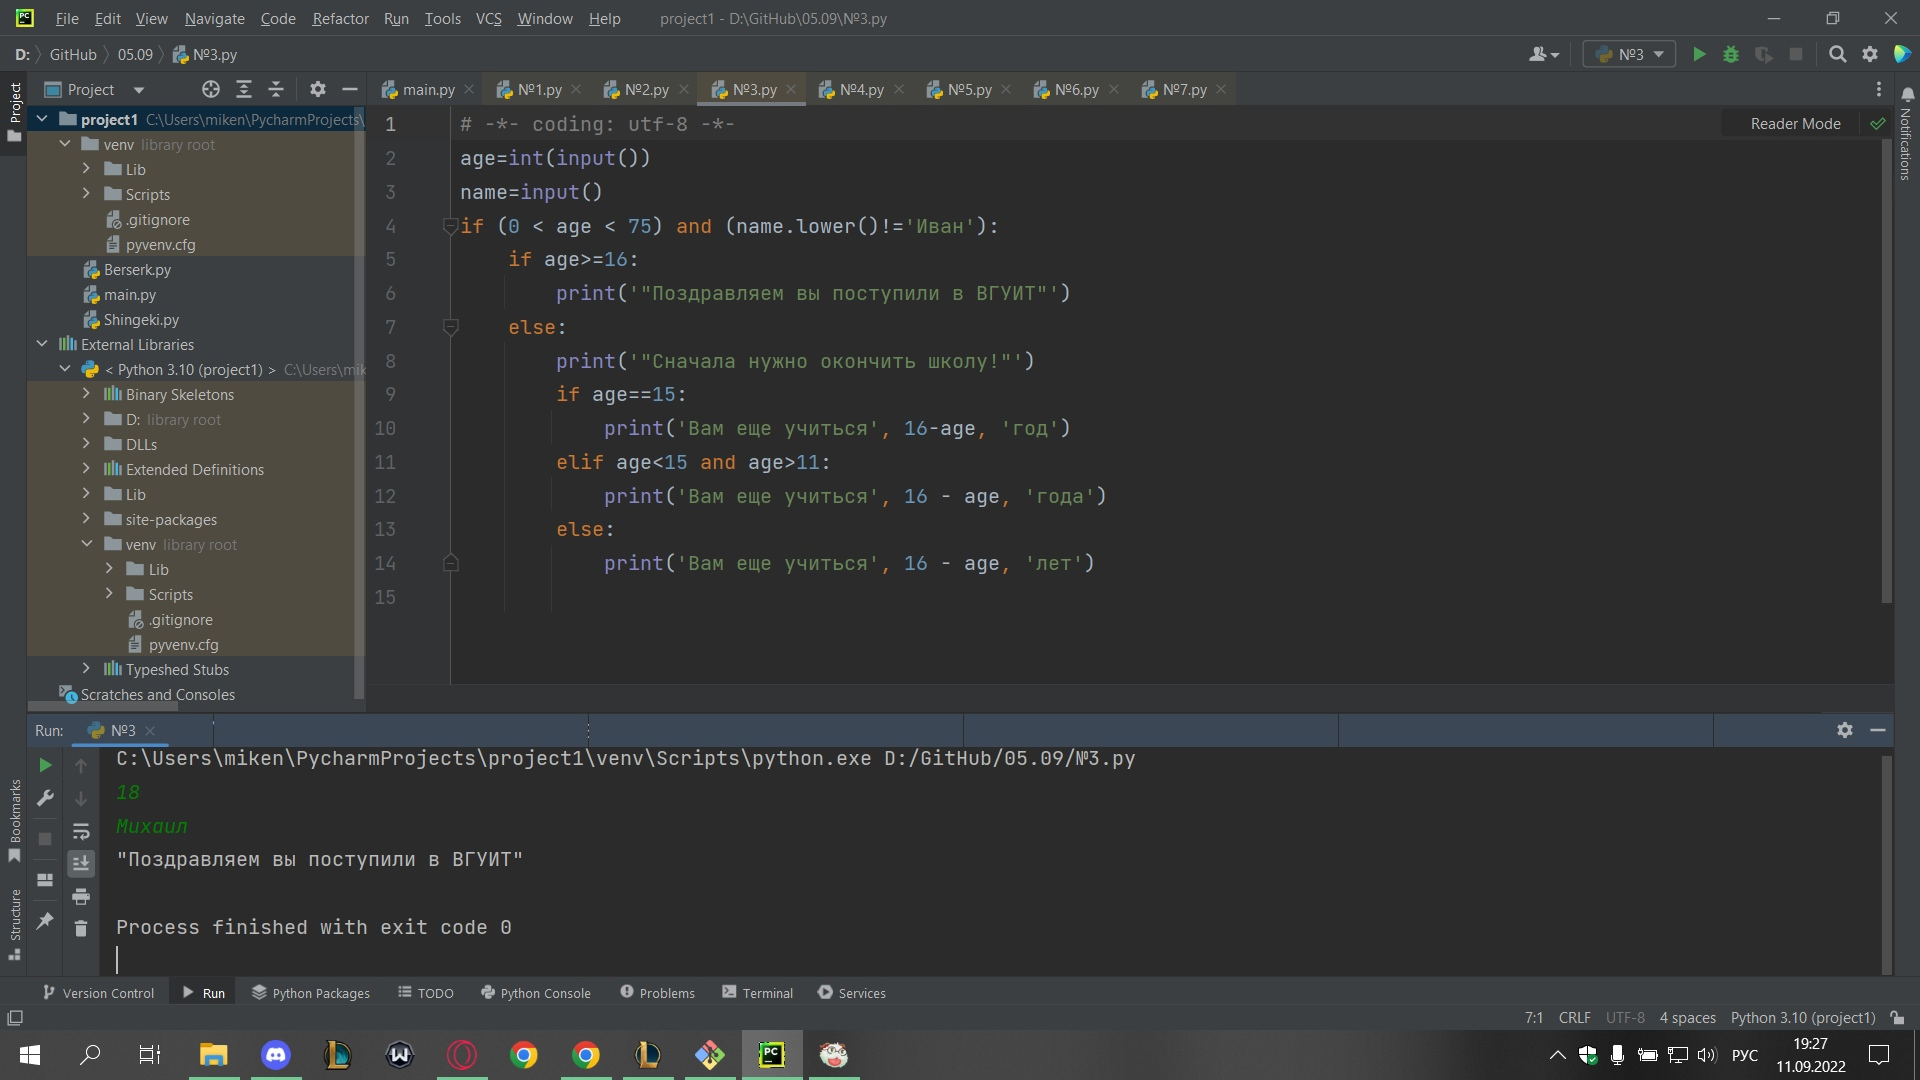
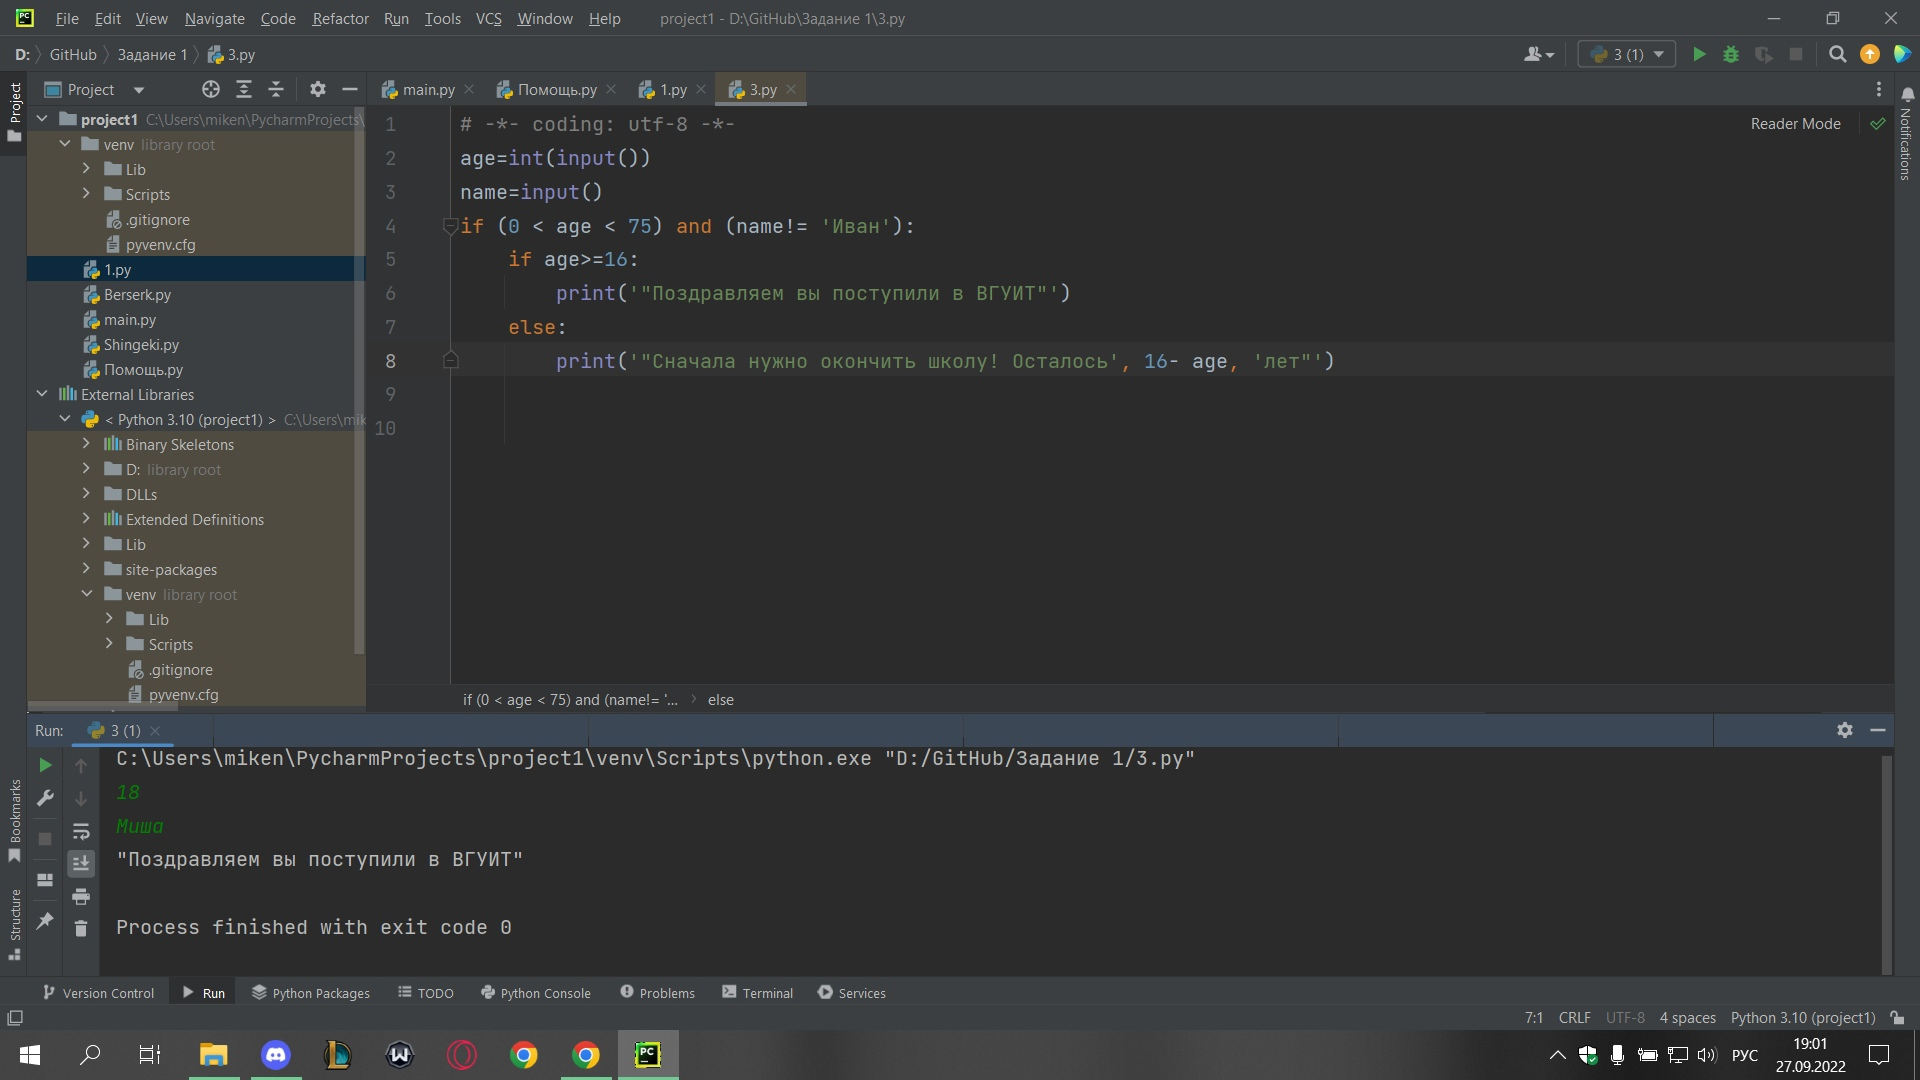
Исправлено 3 и 4 задания 1ой части

diff --git a/Задание 1/3.py b/Задание 1/3.py
@@ -1,14 +1,9 @@
 # -*- coding: utf-8 -*-
 age=int(input())
 name=input()
-if (0 < age < 75) and (name.lower()!='Иван'):
+if (0 < age < 75) and (name!= 'Иван'):
     if age>=16:
         print('"Поздравляем вы поступили в ВГУИТ"')
     else:
-        print('"Сначала нужно окончить школу!"')
-        if age==15:
-            print('Вам еще учиться', 16-age, 'год')
-        elif age<15 and age>11:
-            print('Вам еще учиться', 16 - age, 'годa')
-        else:
-            print('Вам еще учиться', 16 - age, 'лет')
+        print('"Сначала нужно окончить школу! Осталось', 16 - age, 'лет"')
+

diff --git a/Задание 1/4.py b/Задание 1/4.py
@@ -1,6 +1,9 @@
 # -*- coding: utf-8 -*-
 seconds=int(input())
 minutes=int(seconds/60)
-hours=int(seconds/60/60)
-days=int(seconds/60/60/24)
+seconds=seconds-minutes*60
+hours=int(minutes/60)
+minutes=minutes-hours*60
+days=int(hours/24)
+hours=hours-days*24
 print(days,hours,minutes,seconds, sep=':')
